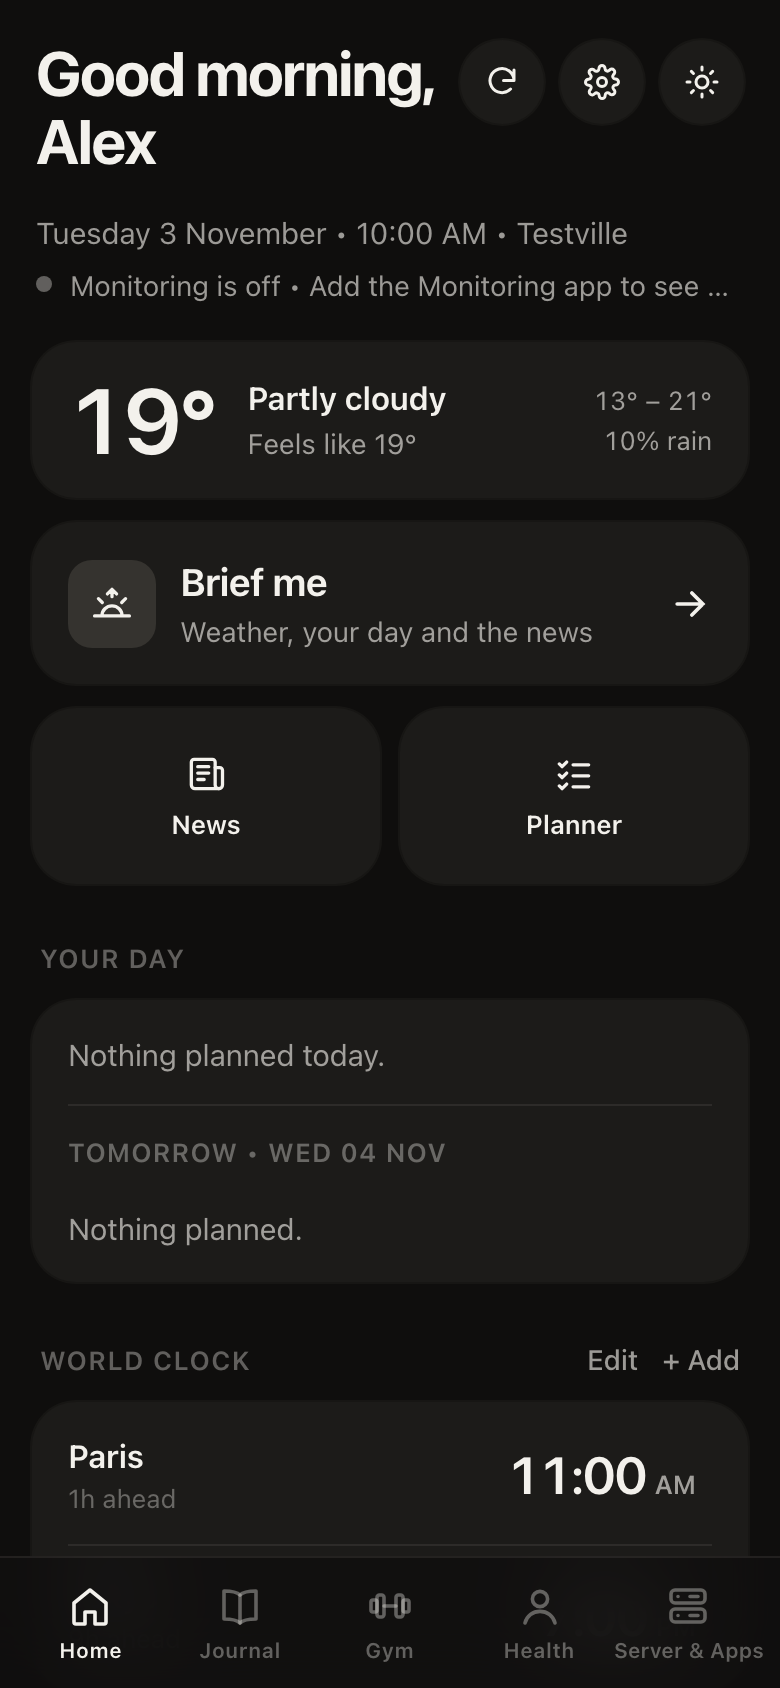
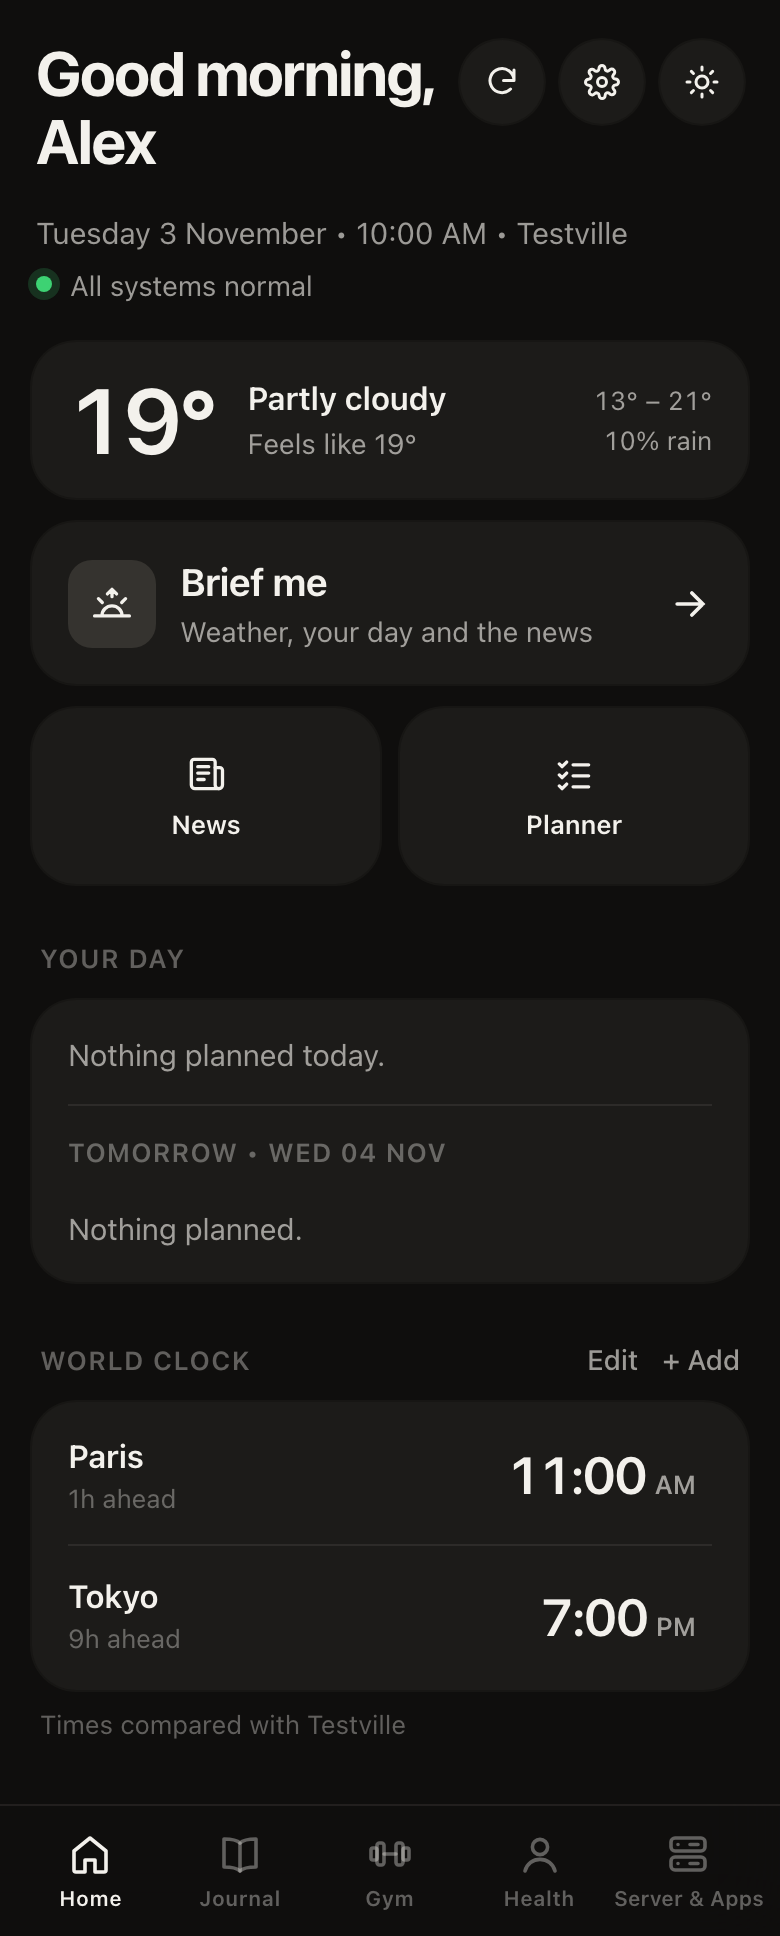
docs: record full-height screenshots with a healthy status line

diff --git a/demo/screenshots.py b/demo/screenshots.py
@@ -48,6 +48,8 @@ def main():
             pg.route("https://api.open-meteo.com/**", lambda r: r.fulfill(status=200, content_type="application/json", body=json.dumps(forecast())))
             pg.route("https://air-quality-api.open-meteo.com/**", lambda r: r.fulfill(status=200, content_type="application/json", body=json.dumps({"current": {"us_aqi": 32, "pm2_5": 7.0}})))
             pg.route("**/api/bot/capabilities", lambda r: r.fulfill(status=200, content_type="application/json", body=json.dumps({"capabilities": [{"name": n, "title": n.title(), "ok": True} for n in HEALTHY]})))
+            pg.route("**/api/bot/server/status", lambda r: r.fulfill(status=200, content_type="application/json", body=json.dumps(
+                {"monitoring": True, "apps": [{"id": a, "name": a, "state": "running"} for a in ("landing", "telegram-bot", "ollama", "open-webui", "grafana")]})))
             pg.goto(url + "/")
             pg.wait_for_load_state("networkidle")
             for tab, name in VIEWS:
@@ -55,7 +57,10 @@ def main():
                 pg.wait_for_load_state("networkidle")
                 pg.wait_for_timeout(400)
                 pg.evaluate("window.scrollTo(0, 0)")
+                pg.set_viewport_size({"width": viewport["width"], "height": pg.evaluate("document.documentElement.scrollHeight")})  # the whole page, so no card is cut off behind the bottom menu
+                pg.wait_for_timeout(300)
                 pg.screenshot(path=os.path.join(OUT, f"{name}-{size}.png"))
+                pg.set_viewport_size(viewport)
                 print("wrote", f"{name}-{size}.png")
             ctx.close()
         browser.close()
